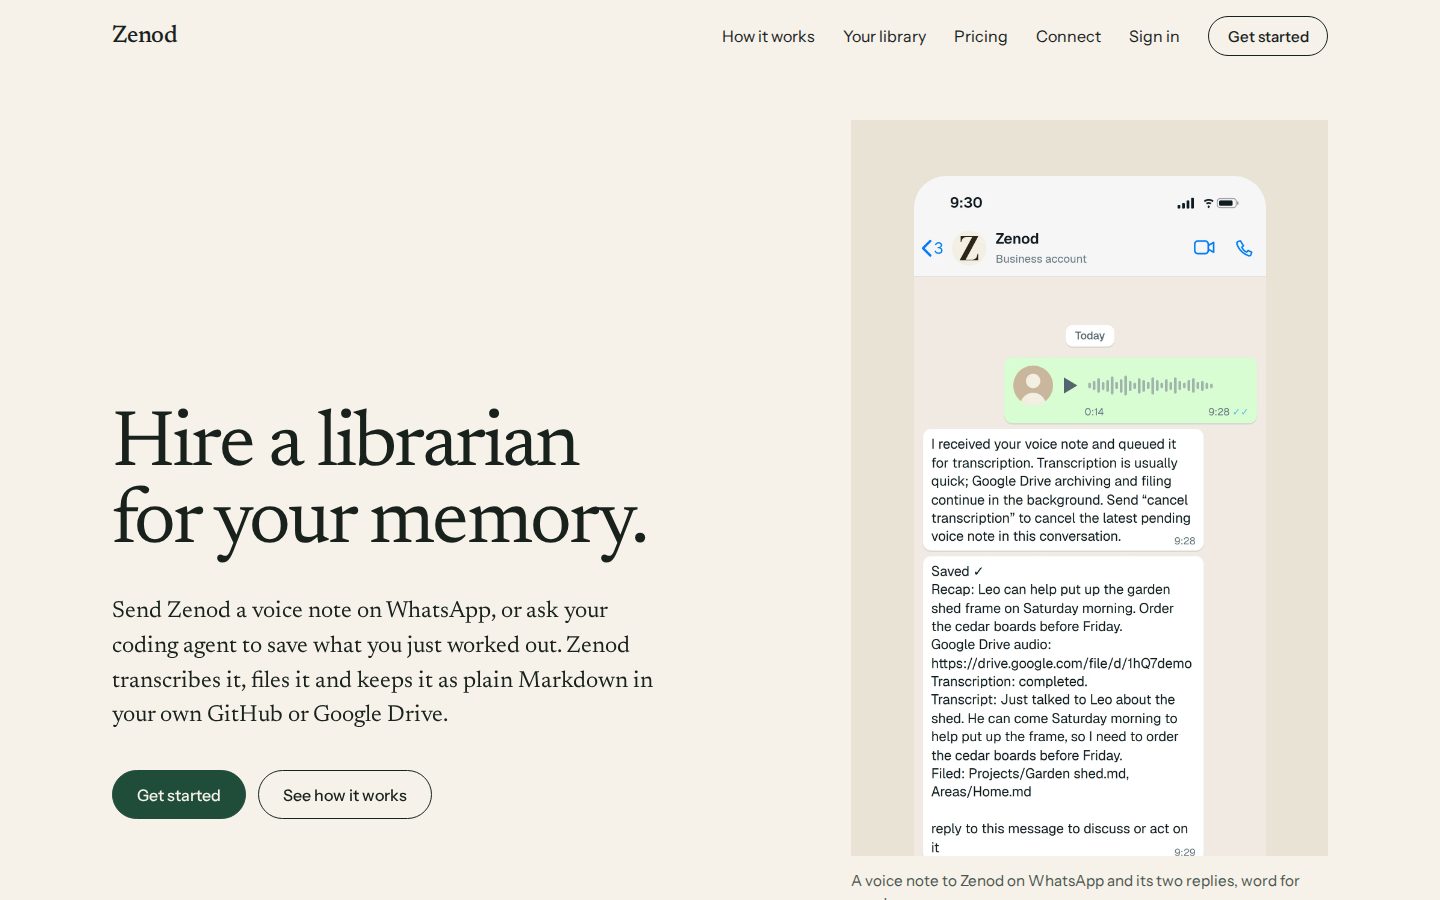
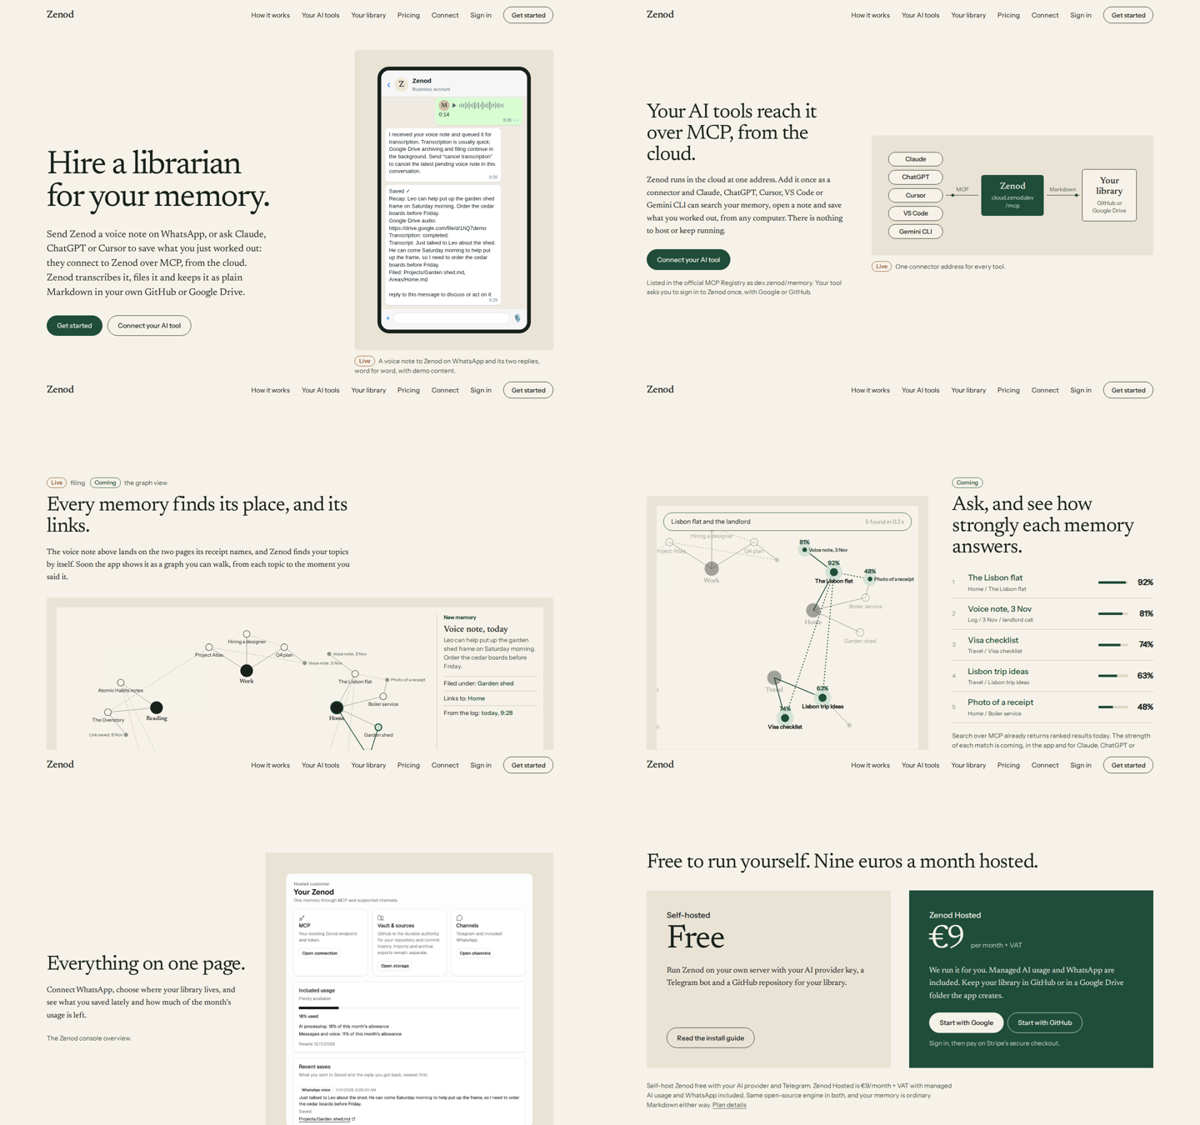
ZAL-A9 iteration 3 in review: zenod.dev live at 322293a, evidence and card
Deck scenes, MCP from the cloud, Hosted sign-in then live Stripe checkout,
console crop, pricing last. Every button clicked on production; health ok on
322293a since 2026-11-08 01:56:13Z.

Run: run_71c76943-def7-4748-b0ed-cbaf875402cc

diff --git a/docs/EPIC-ZENOD-ALPHA-LAUNCH.md b/docs/EPIC-ZENOD-ALPHA-LAUNCH.md
@@ -41,13 +41,13 @@ Goal sentence: A real user signs up, uses Zenod over WhatsApp, and is metered an
 Status: active
 Phase: A0 re-check done and proposed done 2026-10-25 (worker run_f010b4a9); A1–A5 not started
 Last verified: 2026-10-25
-Last attempted: 2026-11-07 21:54Z A9 shipped: #1500 merged as 67d53e3, zenod.dev serves the redone landing (health ok), preview unit retired, card in review ; 2026-11-06 08:05Z A8 in review: WhatsApp Saved replies flowing again (07:47:43Z), #1499 83434ff live 08:01Z (refused saves wait for recovery, recovery at runtime start, 1 h stall alert proven 07:31Z) ; A9 preview at http://vps3.taild81fbb.ts.net:8746/ waits on ZAL-A9-A1 ; 2026-11-06 Jordi voice note "Zenod is broken": saves were blocked 2026-11-04 09:48Z → 2026-11-06 07:15Z (#1496, fixed by #1498 16a83d5) but no WhatsApp "Saved" reply since 2026-11-04 09:44Z ; A8 worker run_b742d122 restores replies and adds stall alerts ; A9 worker run_04b15264 redoes the landing polished on a preview ; 2026-11-04 reconcile (run_867502de): Jordi approved A6 and parked its follow-up as A7 ; 2026-11-04 ZAL-A6 iteration 2 (run_107e6293): WhatsApp voice note with Zenod's real replies, Claude Code retrieving a transcript and saving a learning, real console screens with demo data, live at 43d63a1 ; 2026-11-04 ZAL-A6 iteration 2 (product visuals) shipped by worker run_107e6293 (#1495, 43d63a1 live 11:25Z) and in review; before, iteration 1 Paper landing (#1494, a69a78d) ; 2026-11-03 roll-up from children — [EPIC-7](EPIC-7-REAL-USER-TEST.md) (active): everything agents can build for the 5-tester test is live (checkout, caps, tester codes, wording, tester-watch, rotated keys); the rehearsal waits on one Google sign-in (E7-A15) and the leaked-key rolls on one key page (E7-A14). [EPIC-6](EPIC-6-HEALTH-DASHBOARD.md) (active): S1 inventory in review since 2026-10-25; S2–S6 wait for Jordi to accept S1. A0 re-check proposed done 2026-10-25; A1 voice test and A5 live billing not started
+Last attempted: 2026-11-08 01:56Z A9 iteration 3 live: #1503 merged as 322293a, zenod.dev plays the deck scenes (WhatsApp, memory graph, retrieval marked Coming), MCP-from-the-cloud section, Hosted buttons sign in then open live Stripe checkout, console crop, pricing last; card in review (run_71c76943) ; 2026-11-07 21:54Z A9 shipped: #1500 merged as 67d53e3, zenod.dev serves the redone landing (health ok), preview unit retired, card in review ; 2026-11-06 08:05Z A8 in review: WhatsApp Saved replies flowing again (07:47:43Z), #1499 83434ff live 08:01Z (refused saves wait for recovery, recovery at runtime start, 1 h stall alert proven 07:31Z) ; A9 preview at http://vps3.taild81fbb.ts.net:8746/ waits on ZAL-A9-A1 ; 2026-11-06 Jordi voice note "Zenod is broken": saves were blocked 2026-11-04 09:48Z → 2026-11-06 07:15Z (#1496, fixed by #1498 16a83d5) but no WhatsApp "Saved" reply since 2026-11-04 09:44Z ; A8 worker run_b742d122 restores replies and adds stall alerts ; A9 worker run_04b15264 redoes the landing polished on a preview ; 2026-11-04 reconcile (run_867502de): Jordi approved A6 and parked its follow-up as A7 ; 2026-11-04 ZAL-A6 iteration 2 (run_107e6293): WhatsApp voice note with Zenod's real replies, Claude Code retrieving a transcript and saving a learning, real console screens with demo data, live at 43d63a1 ; 2026-11-04 ZAL-A6 iteration 2 (product visuals) shipped by worker run_107e6293 (#1495, 43d63a1 live 11:25Z) and in review; before, iteration 1 Paper landing (#1494, a69a78d) ; 2026-11-03 roll-up from children — [EPIC-7](EPIC-7-REAL-USER-TEST.md) (active): everything agents can build for the 5-tester test is live (checkout, caps, tester codes, wording, tester-watch, rotated keys); the rehearsal waits on one Google sign-in (E7-A15) and the leaked-key rolls on one key page (E7-A14). [EPIC-6](EPIC-6-HEALTH-DASHBOARD.md) (active): S1 inventory in review since 2026-10-25; S2–S6 wait for Jordi to accept S1. A0 re-check proposed done 2026-10-25; A1 voice test and A5 live billing not started
 Result: production is up (health ok on 5aa4fe4, 2026-11-03) and ready for testers apart from the rehearsal; no tester invited yet; live billing never performed
 Production 2026-10-25: `cloud.zenod.dev/api/health` status ok, sha `ae3e77a3b794a44f78b8f64323f67da28bd4d983`; Dokploy `zenod-mt` on `ghcr.io/zenod-ai/zenod:sha-ae3e77a`; production-readiness still lists 5 advisory failures (Stripe webhook/portal/live billing journey, backup restore, Drive acceptance), all A5 or later. Public Google registration and paid checkout opened 2026-09-16 on `83c2752` ([receipt](evidence/public-opening-2026-09-16/README.md)); live billing and Drive acceptance never performed.
 Finding 2026-10-25 (resolved): the `deploy` job's Dokploy 404 was not a moved app id: `dokploy.polyqu.com` was closed on 2026-10-22 (Dokploy is Tailscale-only), so GitHub runners cannot reach it. The VPS1 deploy poller (infra-vps EPIC-10-A9) already rolls `zenod-mt` after `publish`; #1435 turns `deploy` into a health-sha check and the two `DOKPLOY_*` GitHub secrets were removed. `scripts/deploy-fleet.sh` is manual-only and refuses on Dokploy v0.30 (`project.all` no longer returns images); not needed for the push path.
 Waiting on: Jordi, through EPIC-7: E7-A15 (one sign-in) and E7-A14 (key page); EPIC-6 waits on his S1 review
 Waiting on (ZAL-A6-A1): answered 2026-11-04 ; A6 done (Jordi approved 2026-11-04, c00a3d3), Paper landing with product visuals live at 43d63a1 ; A7 (restyle pricing and connect) parked as draft by Jordi
-Next action: Jordi reviews the A9 card (zenod.dev live at 67d53e3) ; Jordi reviews the A8 card ; then EPIC-7 T7 once Jordi signs in
+Next action: Jordi reviews the A9 card (zenod.dev iteration 3 live at 322293a) ; Jordi reviews the A8 card ; then EPIC-7 T7 once Jordi signs in
 Verified at: 2026-11-06 08:02Z health probe: last Saved reply 07:47:43Z, last capture 07:59:57Z ; cloud.zenod.dev health sha 83434ff ; A8 card checked against the gate
 
 ## Waiting on
@@ -70,7 +70,7 @@ Verified at: 2026-11-06 08:02Z health probe: last Saved reply 07:47:43Z, last ca
 | A6 | Ticket worker | run_107e6293 (it.2; it.1 run_c49da4e3) | ZAL-A6 · Cleaner landing: parallel beta of zenod.dev | done (approved by Jordi 2026-11-04) | - | [#1495](https://github.com/zenod-ai/zenod/pull/1495) merged 43d63a1 (it.1 [#1494](https://github.com/zenod-ai/zenod/pull/1494) a69a78d; beta 74977f7, docs only) | `main` | Beta landing on a temporary tailnet link beside the live `apps/site` (untouched): fewer columns, larger lighter diagrams, generated imagery, human copy; 3 directions + low-hanging-fruit list; Jordi picks before `apps/site` changes. | 2026-11-04 it.2: product visuals live on https://zenod.dev/ at 43d63a1 (health sha verified 11:25Z): WhatsApp voice note with the real replies, Claude Code retrieving a transcript and saving a learning, real console screens; [evidence](evidence/zal-a6-2026-11-04.md), [card](cards/A6.md). Before: it.1 Paper landing a69a78d; 2026-11-03 directions A/B/C at http://vps3.taild81fbb.ts.net:8741/ | 2026-11-04 | followups: started A7 |
 | A7 | Ticket worker | unassigned | restyle the pricing and connect pages in the Paper style: follow-up of A6 | draft | A6 | none | main | none | parked by Jordi when closing A6 2026-11-04 | 2026-11-04 | Jordi starts it from the goal when wanted |
 | A8 | Ticket worker | run_b742d122-def8-4206-bc2f-27f487417499 | WhatsApp replies restored after the 2026-11-04 save outage (#1496): no "Saved" reply since 2026-11-04 09:44Z though saves resumed 07:15Z; auto-recover at runtime start; alert when saves or replies stop (Jordi 2026-11-06: "Zenod is broken") | done (approved by Jordi 2026-11-07) | - | [#1496](https://github.com/zenod-ai/zenod/issues/1496), PR [#1499](https://github.com/zenod-ai/zenod/pull/1499) merged `83434ff`, live 2026-11-06T08:01Z | `wt/zal-a8` | Jordi gets the normal reply to his next WhatsApp voice note; a stall like this alerts within the hour | [zal-a8-2026-11-06](evidence/zal-a8-2026-11-06.md), card [A8](cards/A8.md): Jordi's 07:40Z messages got "Saved" replies (last 07:47:43Z); stall alert fired 07:31Z and recovered 07:41Z | 2026-11-06T08:02Z | followups: started A10 |
-| A9 | Ticket worker | run_71c76943 (iteration 3) | Landing redo to a polished bar: each benefit shown with a real product screenshot, then named (Jordi 2026-11-06: A6 "very poor... raw and half baked, not polished") | active (iteration 2, relaunched by Jordi 2026-11-08: Okay, that's a nice first one, but we should update with the version that has... We have another better iteration working that has animations, so the WhatsApp is animated. And then we also have the chart memory and the retrieval of memory. So I think you can... It's in the right direction, let's ke…) | - | [#1500](https://github.com/zenod-ai/zenod/pull/1500) merged as `67d53e3` | `main` (wt/zal-a9 removed) | Built on a preview link first; ships to zenod.dev only after Jordi approves the coded ask | https://zenod.dev/ live at `67d53e3` (health ok 2026-11-07 21:54:13Z); /connect and /pricing 200; no horizontal scroll at 390; [evidence](evidence/zal-a9-2026-11-06.md#shipped-2026-11-07); [card](cards/A9.md) | 2026-11-07 | Jordi reviews the A9 card. followups: park restyle pricing and connect — already the parked draft row A7, his close keeps it parked; confirm: yes — only Jordi can judge whether the live public page looks the way he wants |
+| A9 | Ticket worker | run_71c76943 (iteration 3; before: ship run_3f749f7f, preview run_04b15264) | Landing redo to a polished bar: each benefit shown with a real product screenshot, then named (Jordi 2026-11-06); iteration 3 (Jordi 2026-11-08): the deck animations (WhatsApp, memory graph, retrieval), real Stripe checkout and sign-up on every button, MCP from the cloud said clearly, console screenshot aligned, pricing at the end | review | - | [#1503](https://github.com/zenod-ai/zenod/pull/1503) merged as `322293a` (iteration 3); before [#1500](https://github.com/zenod-ai/zenod/pull/1500) `67d53e3` | `main` (wt/zal-a9-3 removed) | Built on a preview link first; ships to zenod.dev only after Jordi approves the coded ask | https://zenod.dev/ live at `322293a` (health ok 2026-11-08 01:56:13Z); every button clicked on production lands on Google or GitHub sign-in, /connect, #start, /pricing or the install guide, Stripe live mode; no horizontal scroll at 390; [evidence](evidence/zal-a9-2026-11-06.md#iteration-3-2026-11-08); [card](cards/A9.md) | 2026-11-08 | Jordi reviews the A9 card. followups: park restyle pricing and connect — already the parked draft row A7, his close keeps it parked; confirm: yes — only Jordi can judge whether the live public page looks the way he wants |
 | A10 | Ticket worker | run_4d0d129f (build) | fix the outage warning text with your wording: follow-up of A8 | active | - | none | main | Jordi picks a wording (or writes his own); then the text changes, with the Phylax auto-retry fix if he picks 2 or 3 | [zal-a10-2026-11-07](evidence/zal-a10-2026-11-07.md): warning comes from `phylaxPortedRuntime.ts:925`; 3 options, option 1 text-only, 2 and 3 need the auto-retry fix | 2026-11-07 | build per Jordi's two scenarios: kept → relay retries by itself and says so; nothing kept → "Sorry, Zenod couldn't save this. Please try again in a few minutes."; then review card |
 
 Superseded from the history board: ZAL-4 #1061 (production gate) → A0/A5; ZAL-5 #1062 (stranger journey) → A0 + DOD-2; ZAL-6 #1063 (invitation draft) → A4 via zenod-social.

diff --git a/docs/evidence/zal-a9-2026-11-06.md b/docs/evidence/zal-a9-2026-11-06.md
@@ -69,3 +69,48 @@ Jordi approved the page for production (ZAL-A9-A1 "APPROVED", 77f395b). Ship wor
 - No horizontal scroll: scrollWidth 1440 at 1440 px and 390 at 390 px on `/`, `/connect` and `/pricing`.
 - Production screenshots: desktop [first screen](zal-a9-2026-11-06/prod-desktop-hero.png), [full page](zal-a9-2026-11-06/prod-desktop-full.webp); mobile 390 [first screen](zal-a9-2026-11-06/prod-mobile-hero.png), [full page](zal-a9-2026-11-06/prod-mobile-full.webp).
 - Cleanup: worktree `../wt-zal-a9` and branch `wt/zal-a9` removed (local and remote); preview unit `zal-a9-preview` stopped, disabled and its unit file and served copy removed, so http://vps3.taild81fbb.ts.net:8746/ is gone.
+
+## Iteration 3 (2026-11-08)
+Jordi relaunched A9 on 2026-11-08: keep the direction, bring in the product deck's animations (the WhatsApp exchange, a memory joining the graph, retrieval of memories), point every button at the real Stripe checkout and sign-up, say clearly that Zenod connects to your AI tools over MCP from the cloud, and fix the console screenshot that was too tall for its text. Pricing at the end, as for the deck. Worker run `run_71c76943-def7-4748-b0ed-cbaf875402cc`.
+
+**Live:** https://zenod.dev/ at **`322293a6e7b35c2c83a44a533e02d698a9712ad8`** ([#1503](https://github.com/zenod-ai/zenod/pull/1503), squash-merged, `ci` green, no bypass; publish.yml run [42434801284](https://github.com/zenod-ai/zenod/actions/runs/42434801284) ci, publish, deploy). `https://cloud.zenod.dev/api/health` status ok on that sha, first seen **2026-11-08 01:56:13Z**. zenod.dev serves bundle `main-BfvmG1s0.js`.
+
+### What changed
+| Jordi asked | On zenod.dev now |
+|---|---|
+| The animated WhatsApp from the deck | The hero's WhatsApp is the deck's scene: the voice note, typing dots, the receipt, then Saved with recap, Drive audio, transcript and Filed pages, replayed while on screen. Wording pinned by tests against `phylaxPortedRuntime.ts` and `phylaxChannels.ts` (root L-6); demo sender is Maya's "M", not Jordi. |
+| The chart memory | "Every memory finds its place, and its links." The deck's graph scene: the new voice note joins Garden shed and Home. Tagged **Live** filing, **Coming** the graph view. |
+| The retrieval of memory | "Ask, and see how strongly each memory answers." The deck's retrieval scene: the query types, five memories light up with their percentages and bars. Tagged **Coming**; the fine print says MCP search already returns ranked results today and the strength is coming. |
+| MCP to the cloud, said clearly | Section 2, right after the hero: "Your AI tools reach it over MCP, from the cloud." A figure draws Claude, ChatGPT, Cursor, VS Code and Gemini CLI → MCP → Zenod at `cloud.zenod.dev/mcp` → your library in GitHub or Google Drive; the official MCP Registry entry `dev.zenod/memory` (checked live on registry.modelcontextprotocol.io); button to zenod.dev/connect. The hero lead names it too. |
+| Real Stripe links | Hosted shows "Start with Google" and "Start with GitHub": sign in, come back to zenod.dev, and the app's own checkout route `/create-checkout-session` opens Stripe Checkout. Production readiness reports `stripe_mode` "Stripe is in live mode" and the monthly price configured. There is no static Stripe payment link in the product; the session route is the real flow. Signed in, "Choose Hosted" goes straight to checkout. |
+| Console screenshot too tall | Cropped to the console's first save (1560×1600 desktop, 780×1010 phone, was 2124 and 1604 tall); every screen's text is now centred against its image instead of bottom-aligned. |
+| Pricing at the end | Pricing stays the last section, titled "Free to run yourself. Nine euros a month hosted." as in the deck. |
+
+Light on a phone: the scenes are plain HTML, CSS and a 90-line player (`apps/site/src/lib/scenes.ts`, ported from the deck kit), no library; they play only while 35% on screen. Reduced motion, `?still` or no IntersectionObserver show every final frame (49 of 51 steps visible, the two hidden ones are typing dots), and nothing is hidden without script.
+
+### Every call to action, clicked on production (2026-11-08, signed out, no payment)
+| Button | Lands on |
+|---|---|
+| Nav "Sign in" | accounts.google.com sign-in (Zenod's Google OAuth, returns to cloud.zenod.dev callback) |
+| Nav and hero "Get started" | https://zenod.dev/#start (pricing) |
+| Hero and MCP "Connect your AI tool" | https://zenod.dev/connect |
+| Hosted "Start with Google" | accounts.google.com sign-in; the pending Hosted choice resumes checkout on return to zenod.dev |
+| Hosted "Start with GitHub" | github.com/login (Zenod's GitHub OAuth) |
+| Self-hosted "Read the install guide" | https://github.com/zenod-ai/zenod#readme |
+| "Plan details" | https://zenod.dev/pricing |
+Signed out, `POST /create-checkout-session` answers 401, which sends the browser to sign-in first; after sign-in the same route returns the Stripe session URL. The payment itself was not attempted (real card, human gate).
+
+### Checks
+- `apps/site`: vitest 36/36 (new: story order with MCP first and pricing last, the MCP section's facts, the three scenes and their Coming tags, WhatsApp wording against production source, Hosted buttons and every href), eslint clean, `tsc -b`, `vite build`.
+- No horizontal scroll: scrollWidth equals the viewport at 390, 600, 700, 768, 1024 and 1440 (local build) and at 1440 and 390 on production.
+
+### Production screenshots (2026-11-08, sha 322293a)
+- Desktop 1440: [hero](zal-a9-2026-11-06/iter3-prod-desktop-hero.webp), [MCP](zal-a9-2026-11-06/iter3-prod-desktop-mcp.webp), [graph](zal-a9-2026-11-06/iter3-prod-desktop-graph.webp), [retrieval](zal-a9-2026-11-06/iter3-prod-desktop-strength.webp), [console](zal-a9-2026-11-06/iter3-prod-desktop-console.webp), [pricing](zal-a9-2026-11-06/iter3-prod-desktop-start.webp)
+- Mobile 390: [hero](zal-a9-2026-11-06/iter3-prod-mobile-hero.webp), [MCP](zal-a9-2026-11-06/iter3-prod-mobile-mcp.webp), [graph](zal-a9-2026-11-06/iter3-prod-mobile-graph.webp), [retrieval](zal-a9-2026-11-06/iter3-prod-mobile-strength.webp), [console](zal-a9-2026-11-06/iter3-prod-mobile-console.webp), [pricing](zal-a9-2026-11-06/iter3-prod-mobile-start.webp)
+
+### Cleanup
+Worktree `../wt-zal-a9-3` and branch `wt/zal-a9-3` removed (local and remote).
+
+### Known limits
+- On a phone the graph's node labels are small; the panel beside it carries the story in readable text.
+- `/pricing` and `/connect` keep their older style (parked row A7).

diff --git a/docs/cards/A9.md b/docs/cards/A9.md
@@ -1,19 +1,19 @@
 ---
 row: A9
 spine: EPIC-ZENOD-ALPHA-LAUNCH.md
-title: The zenod.dev home page was redone so each benefit is shown with a real Zenod screen first.
-goal: A polished home page where every benefit comes with a real product screenshot, shown before it is named.
+title: The zenod.dev home page got the deck's animations, a clear MCP section and buttons that reach the real checkout.
+goal: Keep the home page's direction and bring in the deck's animations, real sign-up and checkout, and MCP from the cloud.
 delivered:
-  - ✓ [zenod.dev](https://zenod.dev/) now shows the page you picked, live since 21:54 tonight.
-  - ✓ Seven real screens lead the page, from your WhatsApp voice note to the console.
-  - ✓ The page reads well on a phone, with no sideways scrolling.
-  - ✓ The pricing and connect pages still work as before. Their restyle waits for you to start it.
+  - ✓ [zenod.dev](https://zenod.dev/) now plays the WhatsApp chat, the memory graph and the retrieval scene from the deck.
+  - ✓ A new second section shows your AI tools reaching Zenod over MCP from the cloud.
+  - ✓ Hosted buttons sign you in with Google or GitHub, then open the live Stripe checkout.
+  - ✓ The console screenshot is shorter and lines up with its text, and pricing stays at the end.
 evidence: [Open zenod.dev](https://zenod.dev/)
 screenshot: A9.png
-name: Home page redo
+name: Home page iteration 3
 after: Next the team can restyle the pricing and connect pages to match, when you start that.
 next: park: restyle the pricing and connect pages to match
 confirm: yes — only Jordi can judge whether the live public page looks the way he wants
 ---
 
-Card for ZAL-A9, written by the ship worker (run_3f749f7f) on 2026-11-07. Evidence: [zal-a9-2026-11-06](../evidence/zal-a9-2026-11-06.md).
+Card for ZAL-A9 iteration 3, written by worker run_71c76943 on 2026-11-08. Evidence: [zal-a9-2026-11-06, Iteration 3](../evidence/zal-a9-2026-11-06.md#iteration-3-2026-11-08).
